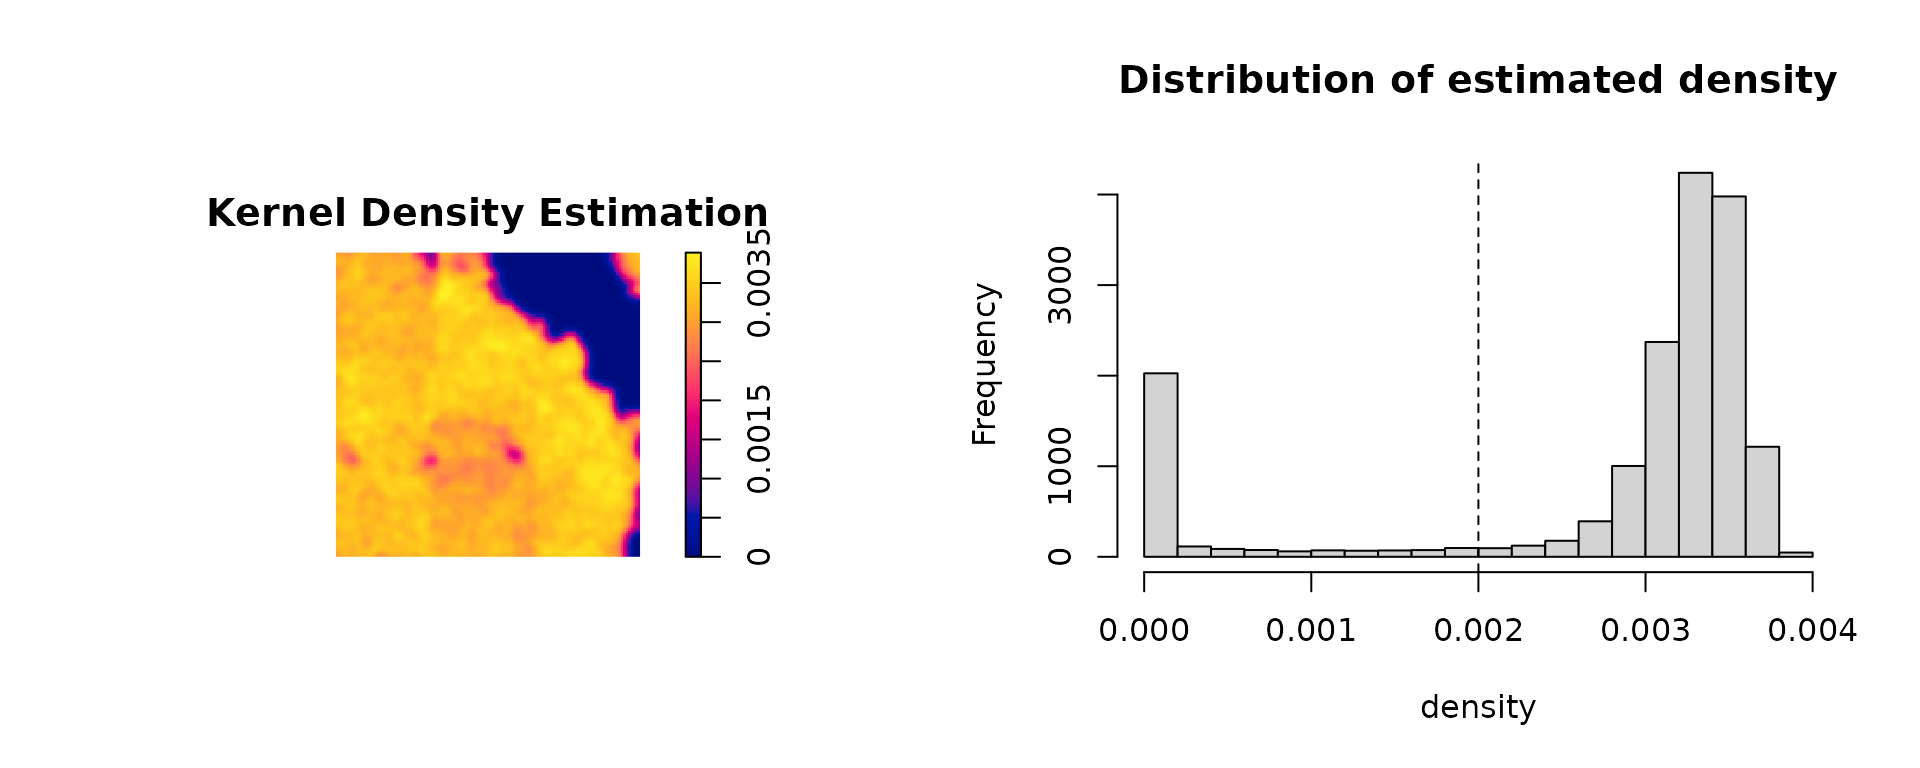
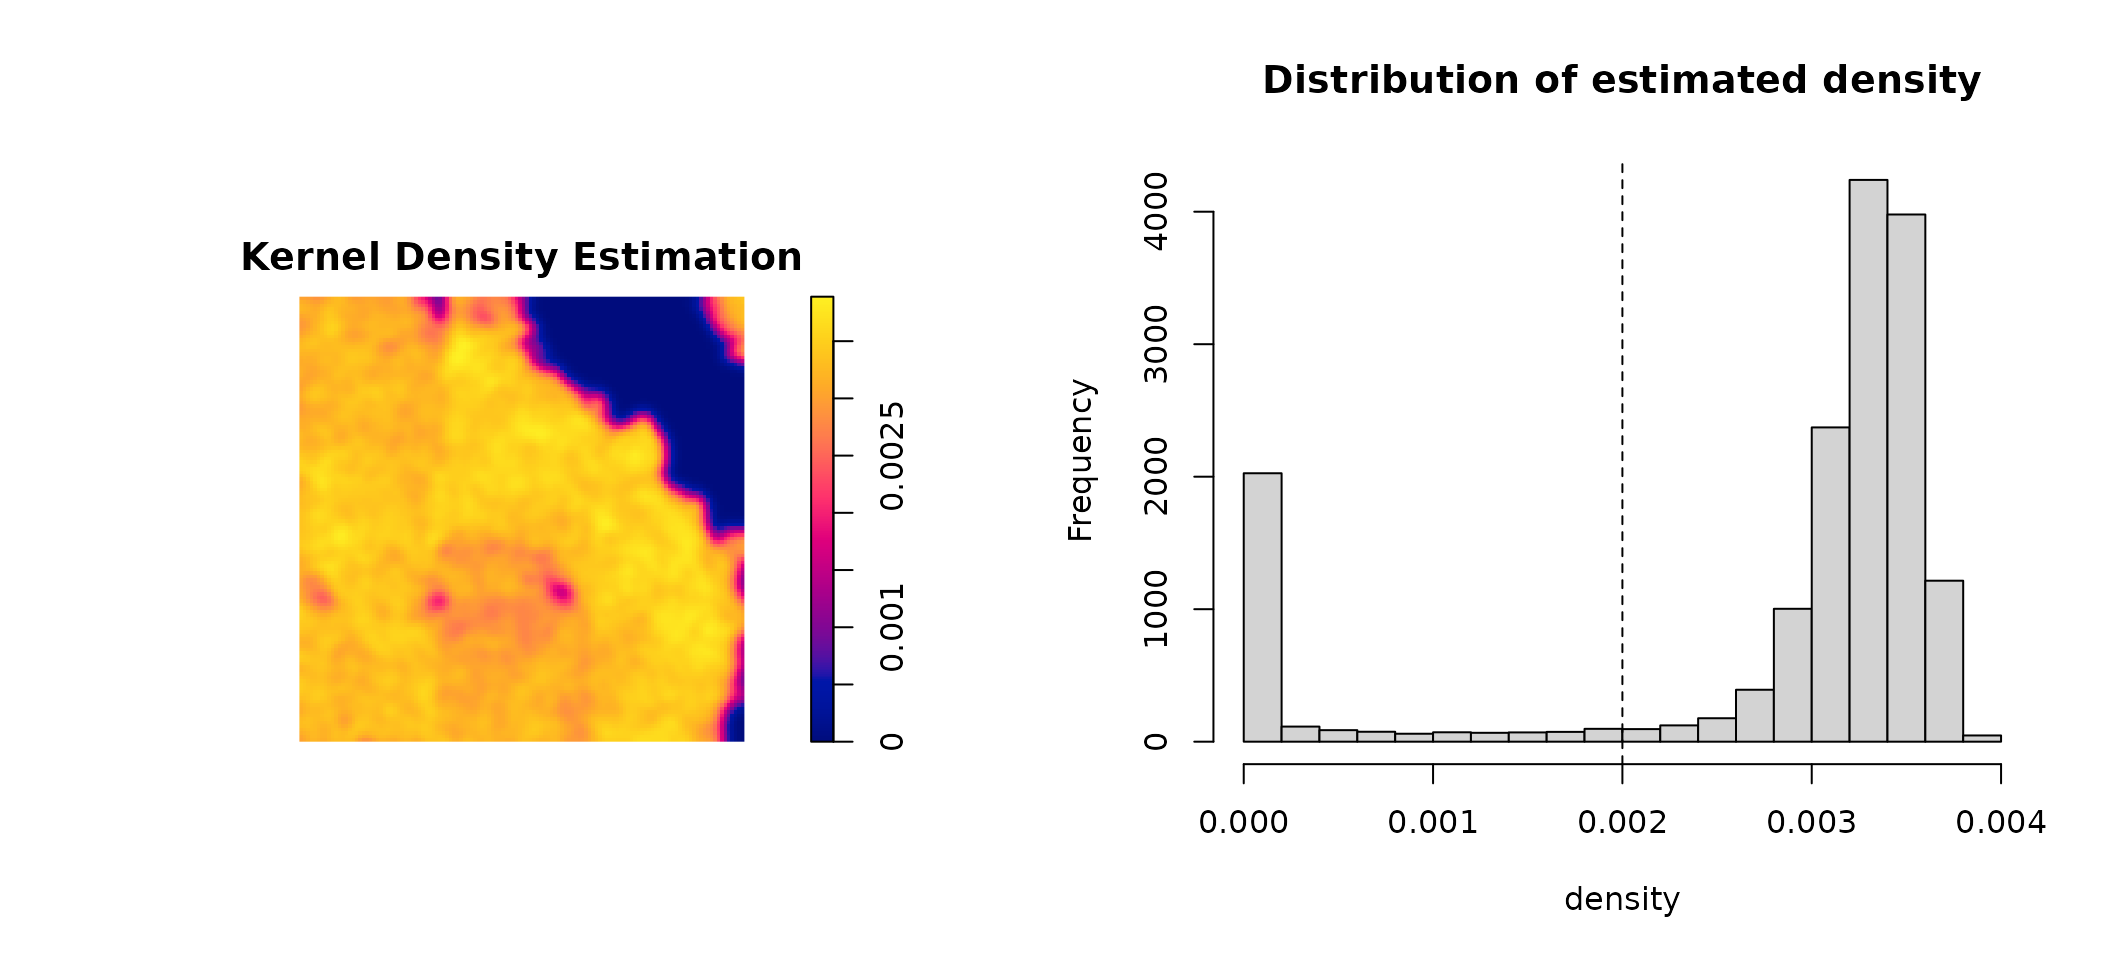
Deploying to gh-pages from @ liuruoqian/MiSA@8820895e8eaf22243cab1588f458faf193c96240 🚀

diff --git a/articles/MiSA_vignette.html b/articles/MiSA_vignette.html
@@ -144,7 +144,7 @@ and <code>taxon_name</code> (the taxon identity of each cell).</p>
 <span><span class="fu"><a href="https://rdrr.io/r/graphics/plot.default.html" class="external-link">plot</a></span><span class="op">(</span><span class="va">img_kde</span>, main<span class="op">=</span><span class="st">"Kernel Density Estimation"</span><span class="op">)</span></span>
 <span><span class="fu"><a href="https://rdrr.io/r/graphics/hist.html" class="external-link">hist</a></span><span class="op">(</span><span class="va">img_kde</span><span class="op">$</span><span class="va">v</span>, main <span class="op">=</span> <span class="st">"Distribution of estimated density"</span>, xlab <span class="op">=</span> <span class="st">"density"</span><span class="op">)</span></span>
 <span><span class="fu"><a href="https://rdrr.io/r/graphics/abline.html" class="external-link">abline</a></span><span class="op">(</span>v<span class="op">=</span><span class="fl">0.002</span>, lty<span class="op">=</span><span class="fl">2</span><span class="op">)</span></span></code></pre></div>
-<p><img src="MiSA_vignette_files/figure-html/unnamed-chunk-3-1.png" class="r-plt" alt="" width="960"></p>
+<p><img src="MiSA_vignette_files/figure-html/unnamed-chunk-3-1.png" class="r-plt" alt="" width="1056"></p>
 </div>
 <div class="section level3">
 <h3 id="determine-region-of-study">Determine region of study<a class="anchor" aria-label="anchor" href="#determine-region-of-study"></a>
@@ -184,7 +184,7 @@ the region of study and plot it over the example image.</p>
 <span><span class="va">W</span> <span class="op">&lt;-</span> <span class="va">wins</span><span class="op">$</span><span class="va">region1</span></span>
 <span><span class="fu"><a href="https://rdrr.io/r/graphics/plot.default.html" class="external-link">plot</a></span><span class="op">(</span><span class="va">example_image</span><span class="op">$</span><span class="va">x</span>, <span class="va">example_image</span><span class="op">$</span><span class="va">y</span>, pch<span class="op">=</span><span class="fl">20</span>, col<span class="op">=</span><span class="st">"pink"</span>, cex<span class="op">=</span><span class="fl">0.1</span>, main <span class="op">=</span> <span class="st">"Microbial map with study region (window W)"</span>, xlab <span class="op">=</span> <span class="st">""</span>, ylab <span class="op">=</span> <span class="st">""</span><span class="op">)</span></span>
 <span><span class="fu"><a href="https://rdrr.io/r/graphics/plot.default.html" class="external-link">plot</a></span><span class="op">(</span><span class="va">W</span>, add <span class="op">=</span> <span class="cn">TRUE</span>, lwd <span class="op">=</span> <span class="fl">2</span><span class="op">)</span></span></code></pre></div>
-<p><img src="MiSA_vignette_files/figure-html/unnamed-chunk-5-1.png" class="r-plt" alt="" width="960"></p>
+<p><img src="MiSA_vignette_files/figure-html/unnamed-chunk-5-1.png" class="r-plt" alt="" width="1056"></p>
 <p>When running MiSA, <code>W</code> can be used as the window for this
 image by including it in the <code>groupA_window_list</code> or
 <code>groupB_window_list</code> argument of <code><a href="../reference/estimate_L.html">estimate_L()</a></code>.
